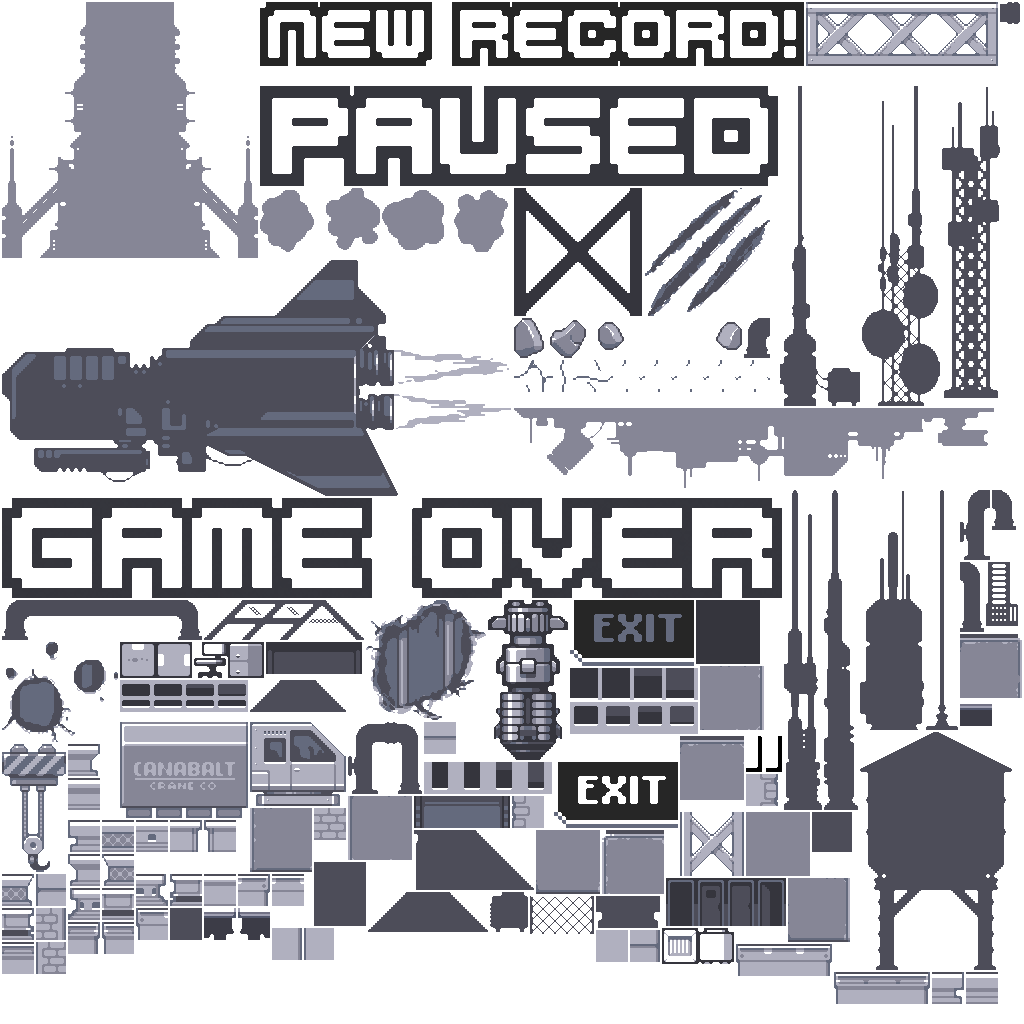
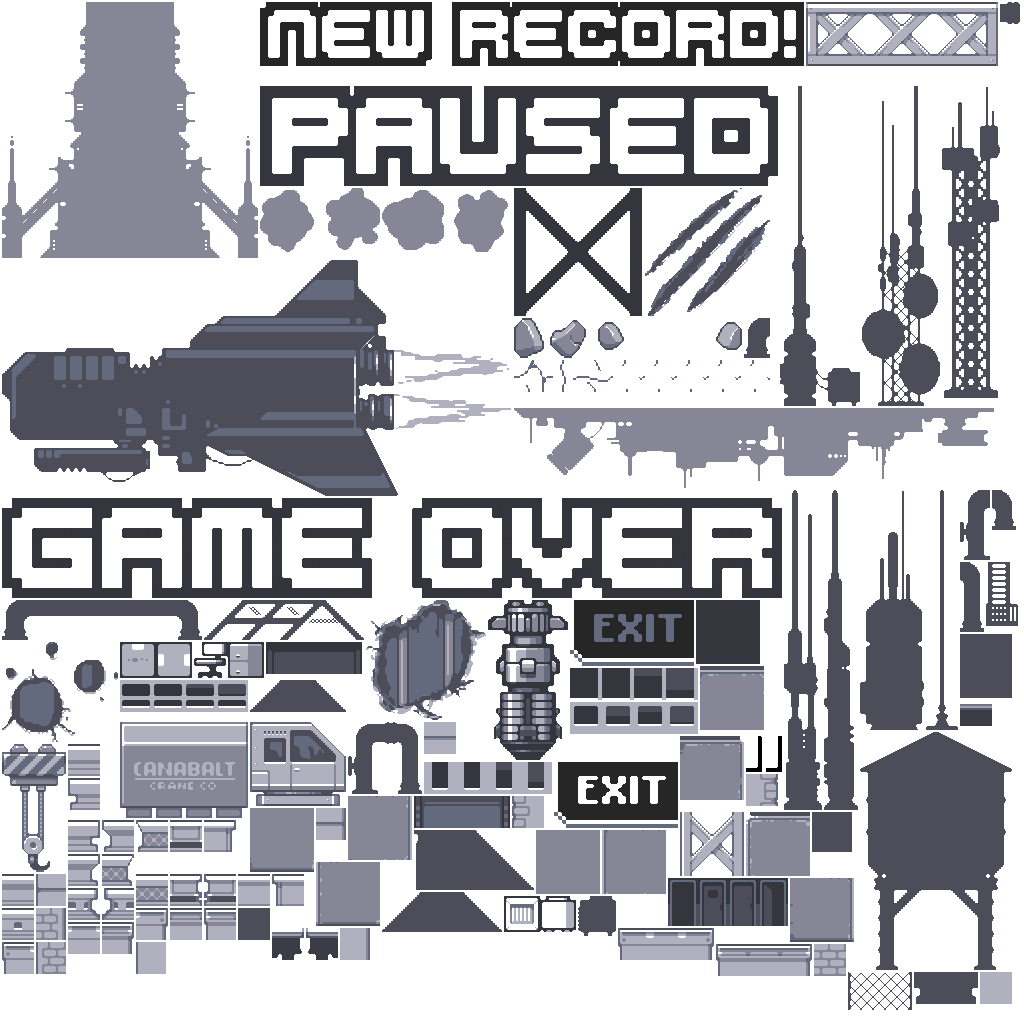
jumping tweaks and fixed up billboards more

diff --git a/Building.m b/Building.m
@@ -247,16 +247,11 @@ static NSString * ImgBillboardDmg3 = @"billboard_dmg3.png";
 					[wallBatch addChild:sprite z:20];
 					sprite.position = ccp(screenSize.width + col * tileSize, pixelHeight + row * tileSize + 3);
 					continue;
-
 				}
 			}
 			else if (row == 1) {
 				if (col == 0) {
 					sprite = [CCSprite spriteWithSpriteFrameName:ImgBillboardBottomLeft];
-					sprite.anchorPoint = ccp(0.0f, 0.0f);
-					[wallBatch addChild:sprite z:20];
-					sprite.position = ccp(screenSize.width + col * tileSize+1, pixelHeight + row * tileSize);
-					continue;
 				}
 				else if (col == maxCol-2) {
 					sprite = [CCSprite spriteWithSpriteFrameName:ImgBillboardBottomRight];
@@ -270,10 +265,6 @@ static NSString * ImgBillboardDmg3 = @"billboard_dmg3.png";
 			else if (row == maxRow) {
 				if (col == 0) {
 					sprite = [CCSprite spriteWithSpriteFrameName:ImgBillboardTopLeft];
-					sprite.anchorPoint = ccp(0.0f, 0.0f);
-					[wallBatch addChild:sprite z:20];
-					sprite.position = ccp(screenSize.width + col * tileSize+1, pixelHeight + row * tileSize);
-					continue;
 				}
 				else if (col == maxCol-2) {
 					sprite = [CCSprite spriteWithSpriteFrameName:ImgBillboardTopRight];
@@ -302,10 +293,22 @@ static NSString * ImgBillboardDmg3 = @"billboard_dmg3.png";
 			sprite.anchorPoint = ccp(0.0f, 0.0f);
 			[wallBatch addChild:sprite z:20];
 			sprite.position = ccp(screenSize.width + col * tileSize, pixelHeight + row * tileSize);
-
-
-
 		}
+	}
+	
+	//draw the post
+	for (int i = 0; i <= maxRow+1; i++) {
+		CCSprite *sprite;
+		if (i == 0) {
+			sprite = [CCSprite spriteWithSpriteFrameName:@"billboard_post2.png"];
+		}
+		else if ((i+1)%2 == 0) //this is double height sprite
+			sprite = [CCSprite spriteWithSpriteFrameName:@"billboard_post.png"];
+		else
+			continue;
+		sprite.anchorPoint = ccp(0.5f,1.0f);
+		[wallBatch addChild:sprite z:10];
+		sprite.position = ccp(screenSize.width + maxCol/2 * tileSize, pixelHeight - i * tileSize + 8);
 	}
 }
 
@@ -379,18 +382,11 @@ static NSString * ImgBillboardDmg3 = @"billboard_dmg3.png";
 		[self addChild:wallBatch];
 		
 		
-		int buildingType = arc4random()%2;
-		switch (buildingType) {
-			case 0:
+		int buildingType = arc4random();
+		if (buildingType > 0.5)
 				[self createBuildingWithBUWidth:BUWidth pixelHeight:pixelHeight];
-				break;
-			case 1:
+		else if (buildingType < 0.5)
 				[self createBillboardWithBUWidth:BUWidth pixelHeight:pixelHeight];
-				
-			default:
-				CCLOG(@"invalid building type dood");
-				break;
-		}
 		
 	}
 	return self;

diff --git a/Runner.m b/Runner.m
@@ -58,12 +58,12 @@
 		
 		if (isTouched) {
 			[self changeState:kStateJumping];
-			if (velocity.y == 0) velocity.y = 6.5f; //initial jump speed
+			if (velocity.y == 0) velocity.y = 4.5f; //initial jump speed
 			//CCLOG(@"start jump");
 		}
 	}
-	if (velocity.y > 5 && isTouched) { //if in process of jumping but below max speed
-		velocity.y += 0.35f;
+	if (velocity.y > 3.2 && isTouched) { //if in process of jumping but below max speed
+		velocity.y += 0.40f;
 	}
 	if (self.position.y > minPos) {  //if above platform level
 		velocity.y += gravity; //apply gravity
